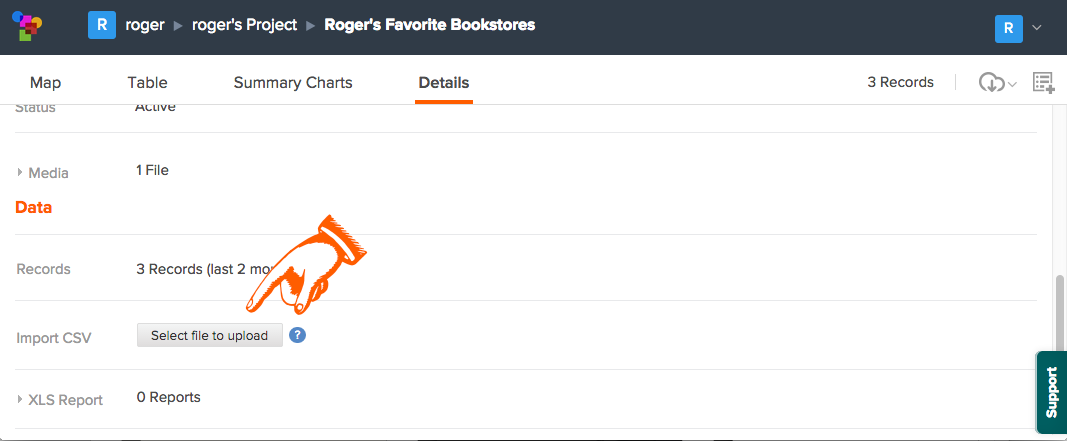
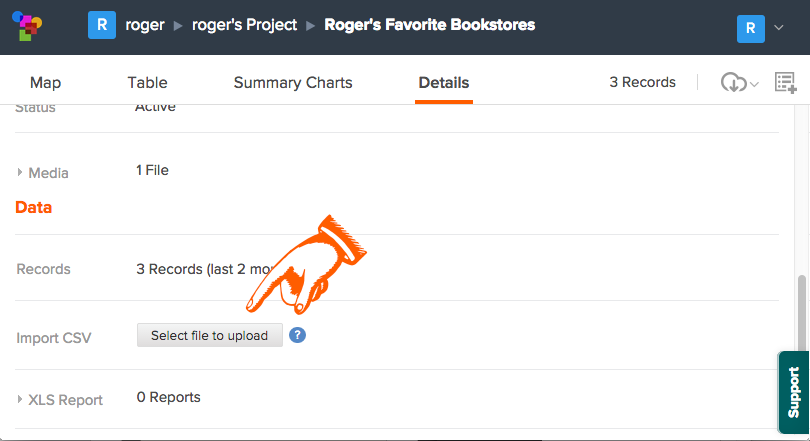
RW: update second image

diff --git a/faqs/_posts/2014-09-23-import-data.md b/faqs/_posts/2014-09-23-import-data.md
@@ -11,13 +11,13 @@ Using **Import CSV** to upload data is a great way to add form records in bulk o
 
 2. Download a CSV of the data using the download CSV dropdown option on the data view page.
 
-    <img src="/content/screenshots/faq_upload_csv_01.png" width="598px">
+    <img src="/content/screenshots/faq_upload_csv_01.png" width="568px">
 
 3. Use your favorite spreadsheet software to add data to new rows or edit data in existing rows. Note: deleting rows will not delete records. To delete whole submissions or records, select a submission from the map or table view and click "Delete."
 
 4. When you are finished updating the CSV file, upload the file to the Import CSV section of the Details tab of your form data view.
 
-    <img src="/content/screenshots/faq_upload_csv_02.png" width="598px">
+    <img src="/content/screenshots/faq_upload_csv_02.png" width="568px">
 
 5. After uploading, your data will update. You may need to reload the page to see changes.
 
